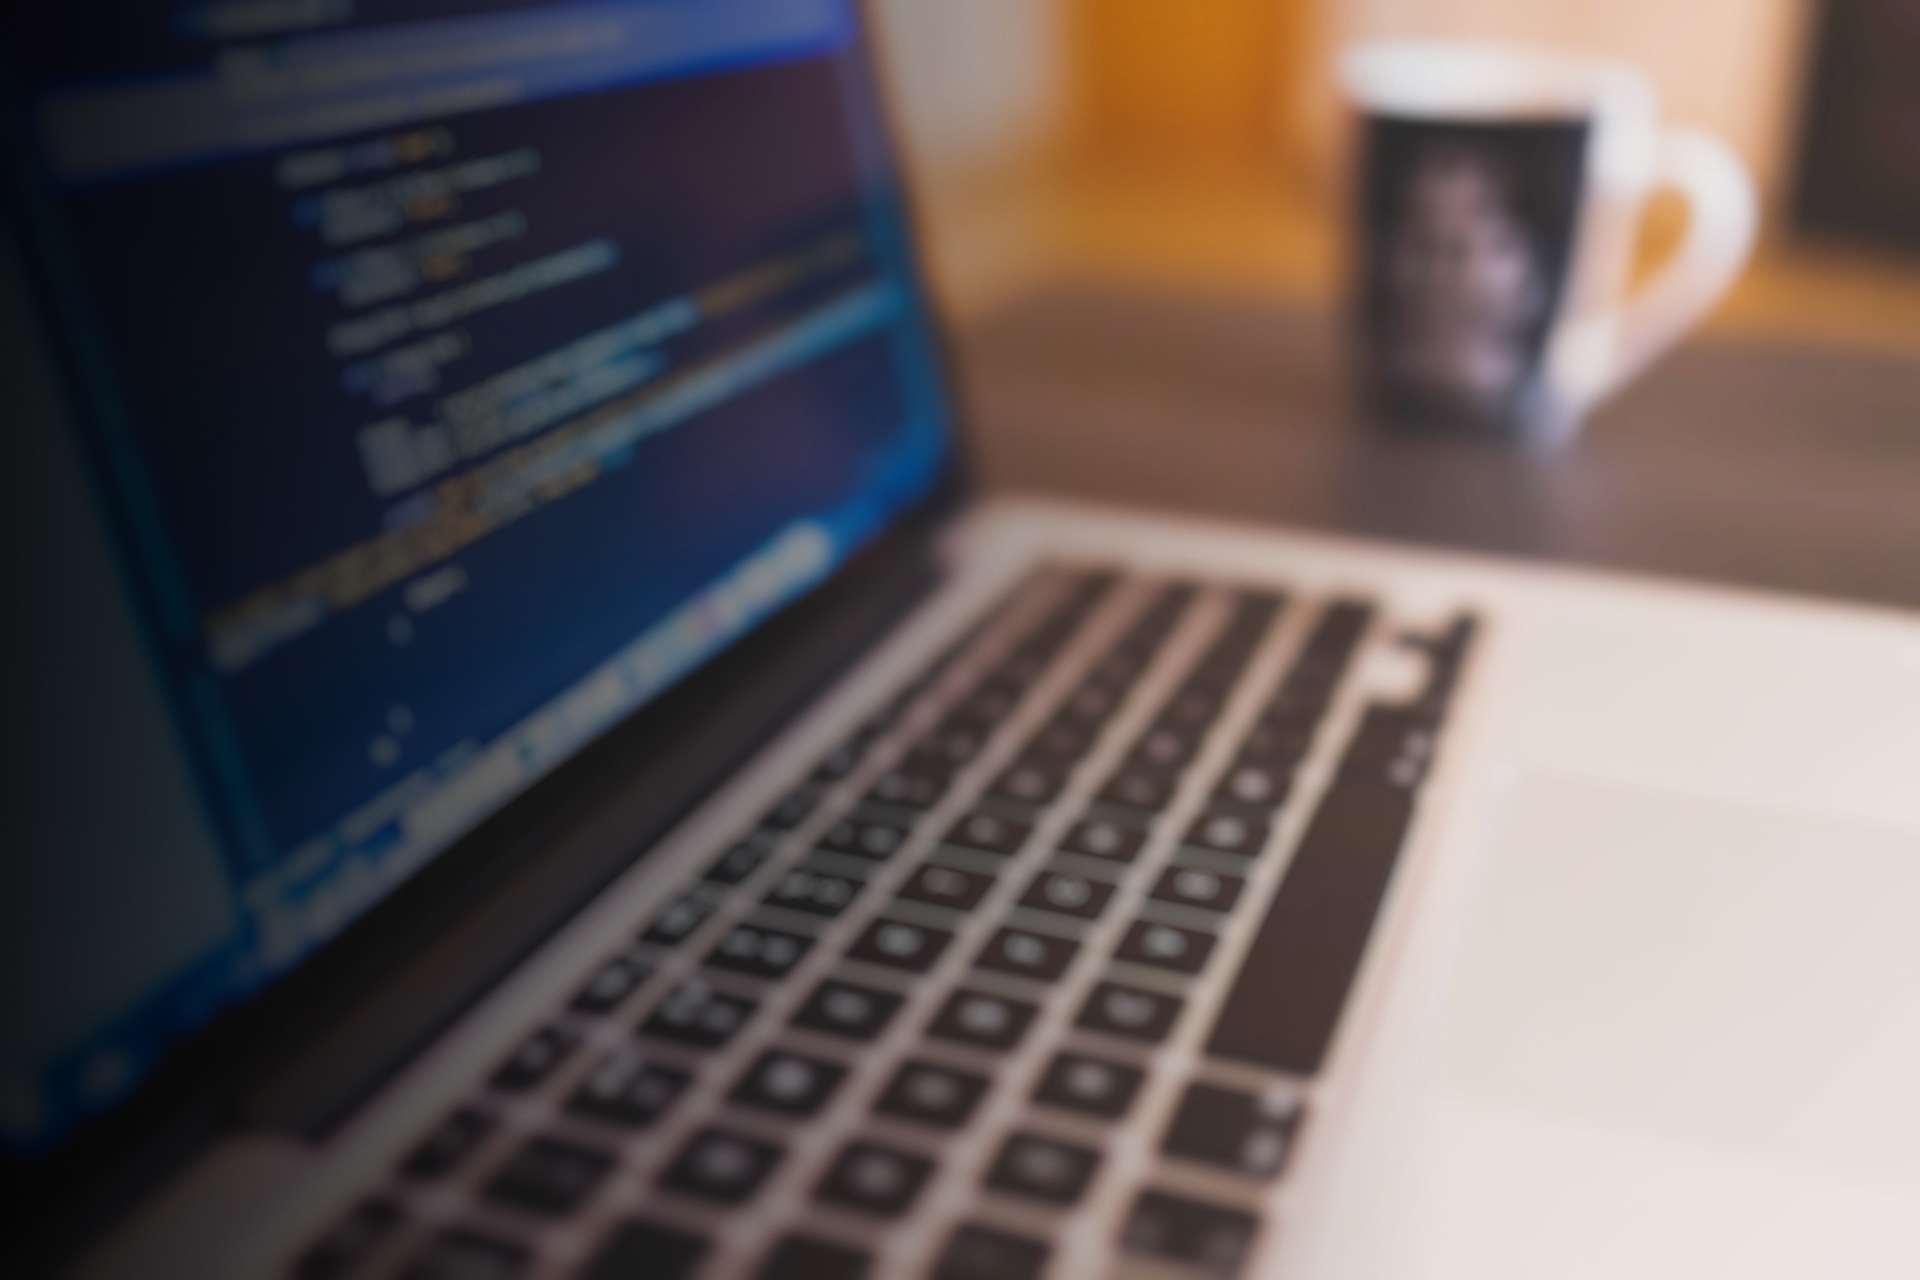
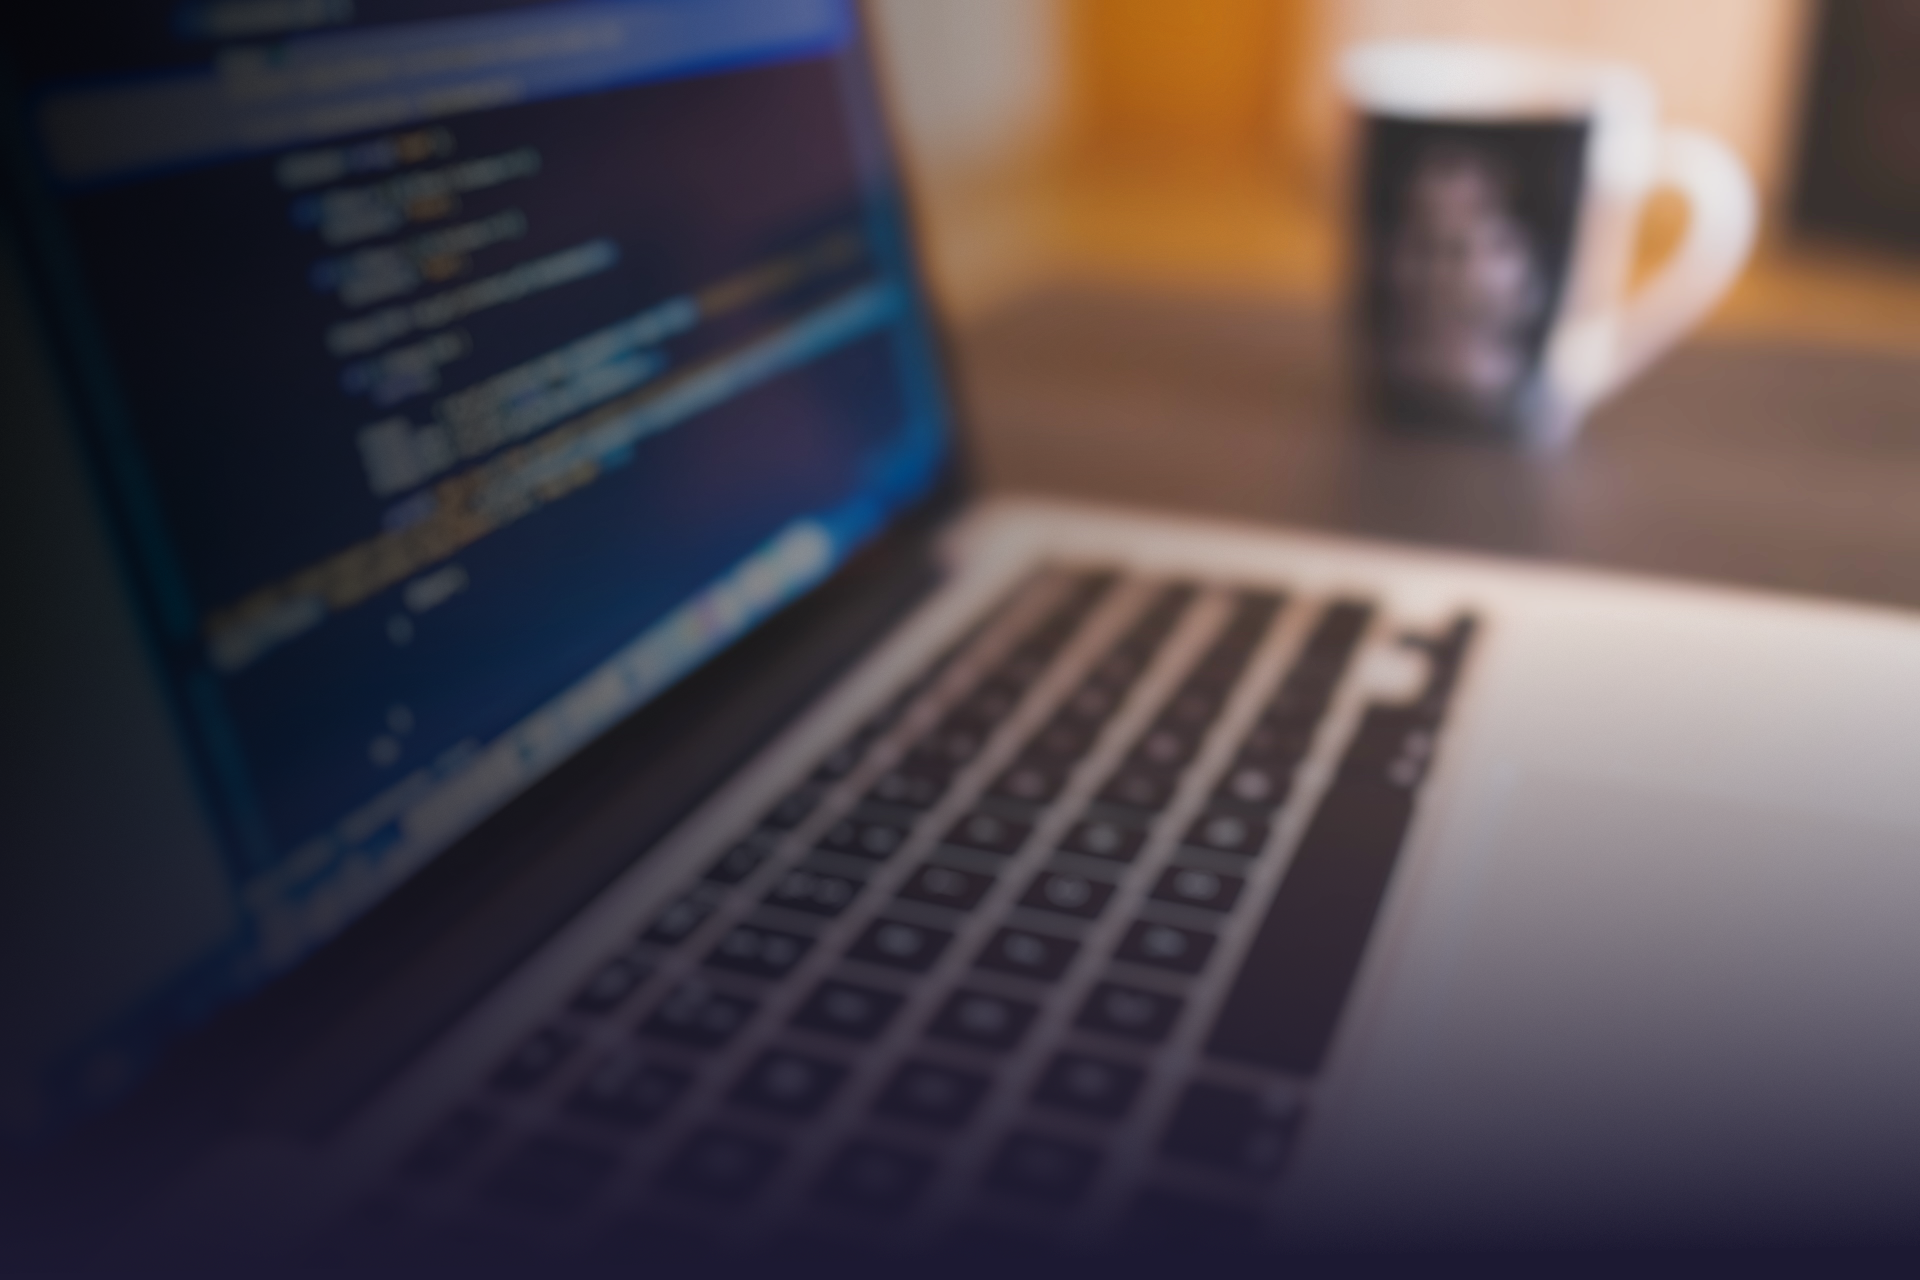
adicionando fotoPerfil + animação

Changed region(s): [[0.0938, 0.5312, 1.0, 1.0], [0.0, 0.8125, 0.125, 1.0]]

diff --git a/src/css/styles.css b/src/css/styles.css
@@ -6,7 +6,7 @@ body {
 .cabecalho {
   height:70px;
   background-color: rgb(12, 11, 23);
-  border-bottom: 3px solid #342e62;
+  border-bottom: 3px solid #41397a;
 }
 
 .opcoes {
@@ -21,6 +21,7 @@ body {
   margin-right: 25px;
   padding: 22px;
   font-size: 16px;
+  letter-spacing: 2px; 
 }
 
 .opcoes li:hover {
@@ -29,25 +30,47 @@ body {
 
 #sobremim {
   position: relative;
+  align-items: center;
+  justify-content: center;
+  min-height: 100vh ;
   
 }
 .boasvindas {
   position: absolute;
   font-family: "Noto Sans", sans-serif;
   text-align: justify;
-  top: 56%;
+  top: 65%;
   left: 38%;
   transform: translate(-50%, -50%);
   z-index: 1;
   color: aliceblue;
-  letter-spacing: 1px; 
+  letter-spacing: 2px; 
   padding: 20px; /* Espaçamento interno */
 }
 
+@keyframes balanco {
+  0% { transform: rotate(0deg); }
+  50% { transform: rotate(5deg); }
+  100% { transform: rotate(0deg); }
+}
+
+.fotoPerfil {
+  position: absolute;
+  width: 342px;
+  top: 40%;
+  left: 72%;
+  align-items: center;
+  padding: 0;
+  margin: 0;
+  justify-content: center;
+  animation: balanco  5s infinite;
+}
 .boasvindas h1{
+
     font-size: 64px;
     font-weight: bold;
     letter-spacing: 2px; 
+    align-items: center;
 }
 
 .boasvindas h1,
@@ -60,4 +83,5 @@ body {
   height: auto;
   background-repeat: no-repeat;
   max-width: 100%;
+  z-index: 0;
 }

diff --git a/index.html b/index.html
@@ -44,8 +44,9 @@
         alt="imagem de programação"
       />
       <div class="boasvindas">
-        <h1><strong>Olá, me chamo Línicker!</strong></h1>
-        <br /><br>
+        <br>
+        <h1><strong>Olá, me chamo Línicker!</strong> 
+        <br><br>
         <h3>
           Bem-vindo ao meu mundo digital! Meu nome é Línicker, e sou apaixonado
           por Tecnologia. Atualmente, estou trilhando meu caminho
@@ -58,6 +59,7 @@
           e contribuir para a comunidade de TI.
         </h3>
       </div>
+      <img class="fotoPerfil" src="./src/images/foto.png" alt="foto de Línicker"></h1>
     </main>
 
     <section id="projetos">
@@ -66,7 +68,8 @@
       <div>
         <ul>
           <li>
-            <h3>Projeto1</h3>
+            <h3>Chessburger</h3>
+            <h4>Chessburger é um </h4>
             <img src="" alt="" />
           </li>
         </ul>
